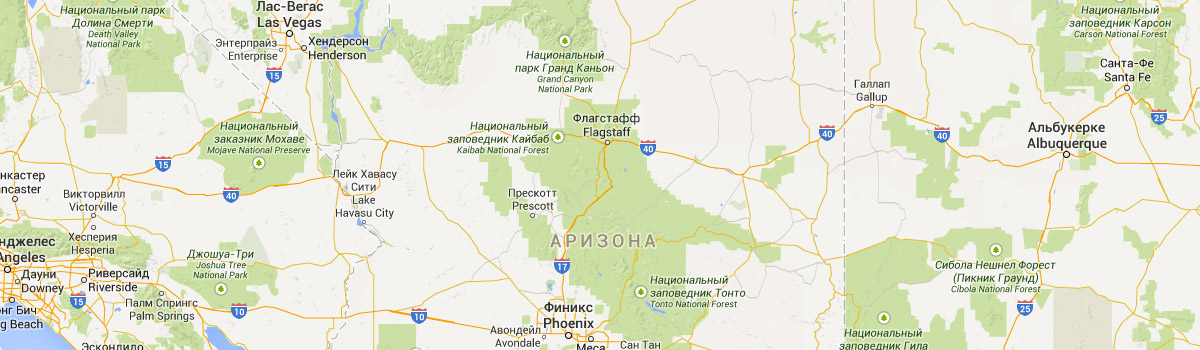
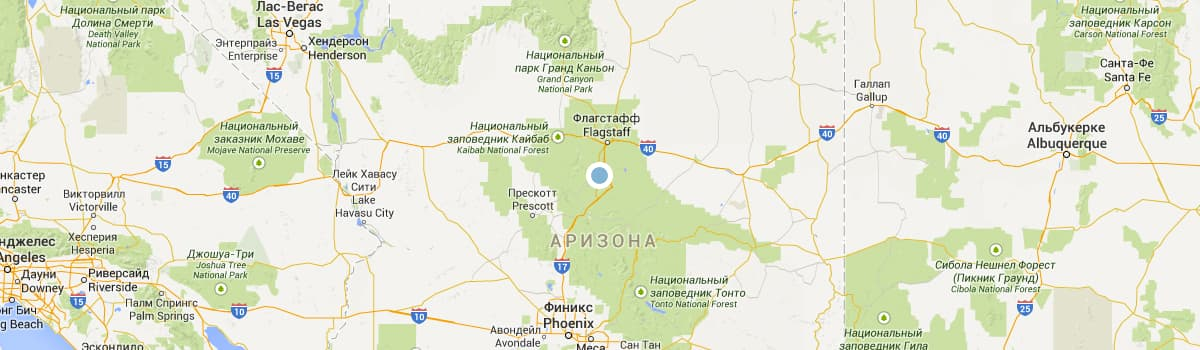
Добавил маркеры в картинки карты

diff --git a/source/sass/blocks/map.scss b/source/sass/blocks/map.scss
@@ -1,6 +1,6 @@
 .map {
-
   position: relative;
+  z-index: 2;
 
   picture {
     display: block;
